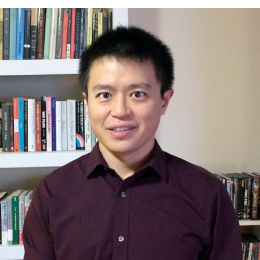
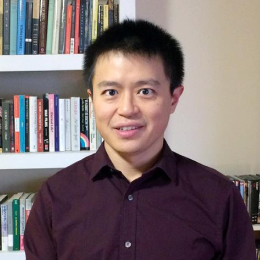
modified people img size

diff --git a/people.html b/people.html
@@ -132,7 +132,7 @@
 					<a href="#" class="grayscale">
 						<img src="images/jerry.jpg" alt="Image" class="img-fluid mb-4">
 						<span class="subheading d-inline-block">Research Assistant</span>
-						<h3 class="h5 mb-3">Weicheng Zheng(Jerry)</h3>
+						<h3 class="h5 mb-3">Weicheng (Jerry) Zheng</h3>
 						<p class="text-muted">A Data Science student, a VTuber lover and in my heart a gamer 😉</p>
 					</a>
 				</div>
@@ -251,8 +251,7 @@
 				<div class="col-lg-3">
 					<a href="#" class="grayscale">
 						<img src="images/liming.jpg" alt="Image" class="img-fluid mb-4">
-						<span class="subheading d-inline-block">Collabrator</span>
-						<h3 class="h5 mb-3">Ming Li</h3>
+ 						<h3 class="h5 mb-3">Ming Li</h3>
 						<p class="text-muted">Ming Li received his Ph.D. in Electrical Engineering
 							from University of Southern California in 2013. He is currently an
 							Associate Professor of Electrical and Computer Engineering at Duke Kunshan University.
@@ -266,8 +265,7 @@
 				<div class="col-lg-3">
 					<a href="#" class="grayscale">
 						<img src="images/luyao.jpg" alt="Image" class="img-fluid mb-4">
-						<span class="subheading d-inline-block">Collabrator</span>
-						<h3 class="h5 mb-3">Luyao Zhang</h3>
+ 						<h3 class="h5 mb-3">Luyao Zhang</h3>
 						<p class="text-muted">Luyao (Sunshine) Zhang is Assistant Professor of Economics and Senior
 							 Research Scientist at the Data Science Research Center at Duke Kunshan University (DKU).
 							 She has an abiding passion for interdisciplinary collaborations, especially related to
@@ -278,8 +276,7 @@
 				<div class="col-lg-3">
 					<a href="#" class="grayscale">
 						<img src="images/lijing.jpg" alt="Image" class="img-fluid mb-4">
-						<span class="subheading d-inline-block">Collabrator</span>
-						<h3 class="h5 mb-3">Lijing Yan</h3>
+ 						<h3 class="h5 mb-3">Lijing Yan</h3>
 						<p class="text-muted">Lijing L. Yan, PhD, MPH, is currently an associate research professor at the Duke Global
 							Health Institute, Duke University in the USA and the Head of Non-communicable Chronic Diseases (NCDs)
 							Research at the Global Health Research Center of Duke Kunshan University in China since July 2014. </p>
@@ -288,8 +285,7 @@
 				<div class="col-lg-3">
 					<a href="#" class="grayscale">
 						<img src="images/chen.jpg" alt="Image" class="img-fluid mb-4">
-						<span class="subheading d-inline-block">Collabrator</span>
-						<h3 class="h5 mb-3">Chenkai Wu</h3>
+ 						<h3 class="h5 mb-3">Chenkai Wu</h3>
 						<p class="text-muted">Dr. Chenkai Wu is an Assistant Professor of Global Health at Duke Kunshan University (DKU).
 							 Prior to joining DKU, he was a faculty member in the Department of Epidemiology and Community Health at
 							 New York Medical College. Dr. Wu has a B.S. degree in Psychology from Zhejiang University and a M.S.
@@ -300,8 +296,7 @@
 					<div class="col-lg-3">
 				<a href="#" class="grayscale">
 					<img src="images/jung.jpg" alt="Image" class="img-fluid mb-4">
-					<span class="subheading d-inline-block">Collabrator</span>
-					<h3 class="h5 mb-3">Jung Choi</h3>
+ 					<h3 class="h5 mb-3">Jung Choi</h3>
 					<p class="text-muted">Her research focuses on interactions between art and technology,
 						and contemporary visual and media culture, especially on the ways in which artistic
 						and creative practices provide constructive criticism on our contemporary media environments.
@@ -312,8 +307,7 @@
 				<div class="col-lg-3">
 			<a href="#" class="grayscale">
 				<img src="images/char.jpg" alt="Image" class="img-fluid mb-4">
-				<span class="subheading d-inline-block">Collabrator</span>
-				<h3 class="h5 mb-3">Charles Chang</h3>
+ 				<h3 class="h5 mb-3">Charles Chang</h3>
 				<p class="text-muted">His research interest hinges on the intersections between computation and design.
 					With the rise of smartphones and other internet-connected devices, design choices become increasingly
 					data-driven and dependent on information’s credibility in the construction of the human habitat.
@@ -339,8 +333,7 @@
 				<div class="col-lg-3">
 					<a href="#" class="grayscale">
 						<img src="images/ray.jpg" alt="Image" class="img-fluid mb-4">
-						<span class="subheading d-inline-block">Collabrator</span>
- 						<h3 class="h5 mb-3">RAY LC</h3>
+  						<h3 class="h5 mb-3">RAY LC</h3>
 						<p class="text-muted"> Dr. RAY LC, PhD UCLA, MFA Parsons School of Design, Assistant Professor of Creative Media @ City University of Hong Kong.
 							  RAY LC works at the boundary of spatial design, human-robotic interaction, and social computing.
 							</p>
@@ -349,8 +342,7 @@
 				<div class="col-lg-3">
 					<a href="#" class="grayscale">
 						<img src="images/lu.jpg" alt="Image" class="img-fluid mb-4">
-						<span class="subheading d-inline-block">Collabrator</span>
-						<h3 class="h5 mb-3">Zhicong Lu</h3>
+ 						<h3 class="h5 mb-3">Zhicong Lu</h3>
 						<p class="text-muted">Dr. Zhicong Lu is an assistant professor at the Department of Computer Science, City University of Hong Kong. His research interests lie at the intersection of HCI,
 							social computing, computational social science, and machine learning, especially in studying, designing, and building systems that support social interactions, to enhance trust, engagement, and knowledge sharing in virtual and physical spaces.</p>
 					</a>
@@ -358,8 +350,7 @@
 				<div class="col-lg-3">
 					<a href="#" class="grayscale">
 						<img src="images/yi.jpg" alt="Image" class="img-fluid mb-4">
-						<span class="subheading d-inline-block">Collabrator</span>
-						<h3 class="h5 mb-3">Xin Yi</h3>
+ 						<h3 class="h5 mb-3">Xin Yi</h3>
 						<p class="text-muted">
 							He has been engaged in the research of applied security intelligent Internet of Things and human-computer interaction for a long time, including the privacy and security issues of interactive application Internet of Things and mobile scenarios, such as intelligent perception and collaborative optimization of interconnection technology and human-computer performance</p>
 					</a>
@@ -367,32 +358,28 @@
 				<div class="col-lg-3">
 					<a href="#" class="grayscale">
 						<img src="images/yuhang.jpg" alt="Image" class="img-fluid mb-4">
-						<span class="subheading d-inline-block">Collabrator</span>
-						<h3 class="h5 mb-3">Yuhang Zhao</h3>
+ 						<h3 class="h5 mb-3">Yuhang Zhao</h3>
 						<p class="text-muted">Dr. Yuhang Zhao is an assistant professor in the department of Computer Sciences at the University of Wisconsin-Madison. Her research interests include Human-Computer Interaction (HCI), accessibility, augmented and virtual reality (AR/VR), and mobile interaction.</p>
 					</a>
 				</div>
 				<div class="col-lg-3">
 					<a href="#" class="grayscale">
 						<img src="images/yuling.jpg" alt="Image" class="img-fluid mb-4">
-						<span class="subheading d-inline-block">Collabrator</span>
-						<h3 class="h5 mb-3">Yuling Sun</h3>
+ 						<h3 class="h5 mb-3">Yuling Sun</h3>
 						<p class="text-muted">My research lies at the interaction of Health Informatics, Human-computer Interaction (HCI), Computer Supported Collaborative Work (CSCW), and Social Computing. My current work primarily focuses on computer-mediated collaborative and interactive forms for sustainable living.</p>
 					</a>
 				</div>
 				<div class="col-lg-3">
 					<a href="#" class="grayscale">
 						<img src="images/kaixing.jpg" alt="Image" class="img-fluid mb-4">
-						<span class="subheading d-inline-block">Collabrator</span>
-						<h3 class="h5 mb-3">Kaixing Zhao</h3>
+ 						<h3 class="h5 mb-3">Kaixing Zhao</h3>
 						<p class="text-muted">Dr. Kaixing Zhao now is Assistant Professor at School of Software, Northwestern Polytechnical University, China. He also works closely with Augmented Human Lab, The University of Auckland as visiting Research Fellow. Kaixing obtained his Ph.D. in Human-Computer Interaction from the Elipse team, Toulouse Institute of Computer Science Research (CNRS UMR 5505), which is a joint lab between CNRS (French National Center for Scientific Research) and University of Toulouse. </p>
 					</a>
 				</div>
 				<div class="col-lg-3">
 					<a href="#" class="grayscale">
 						<img src="images/yaxing.jpg" alt="Image" class="img-fluid mb-4">
-						<span class="subheading d-inline-block">Collabrator</span>
-						<h3 class="h5 mb-3">Yaxing Yao</h3>
+ 						<h3 class="h5 mb-3">Yaxing Yao</h3>
 						<p class="text-muted">Dr. Yaxing Yao is an Assistant Professor in the Department of Information Systems at the University of Maryland, Baltimore County. His research lies in the intersection of Human-Computer Interaction, Usable Privacy, and Design. Particularly, his research shifts the research focus from the privacy experiences of singles to that of multiple stakeholders in the Internet of Things, Smart Homes, and online environment</p>
 					</a>
 				</div>
